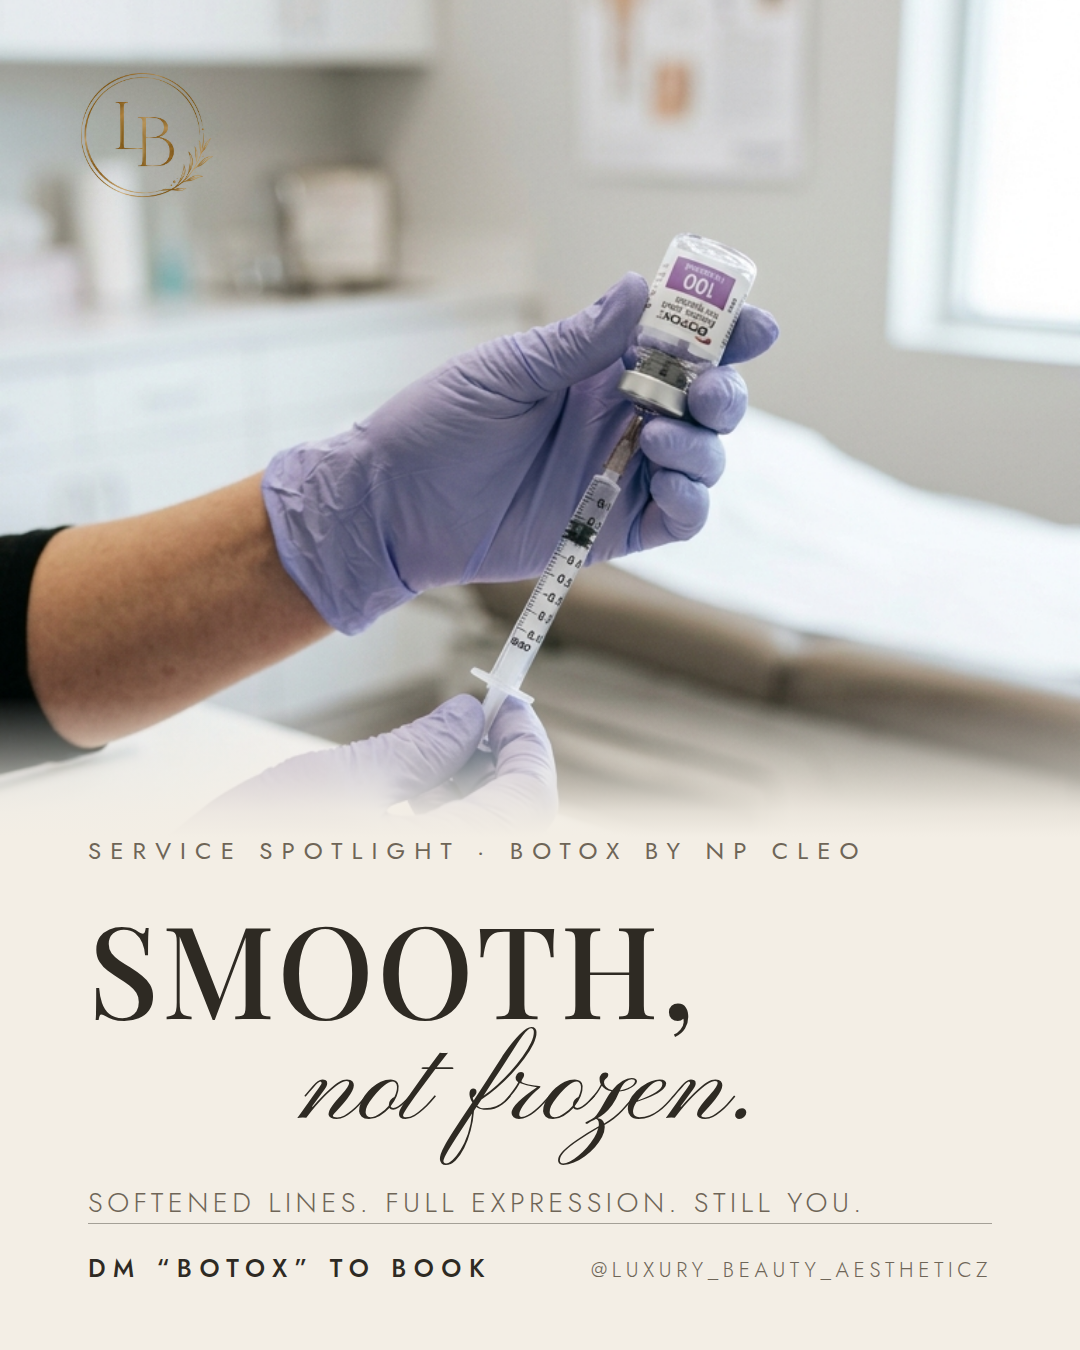
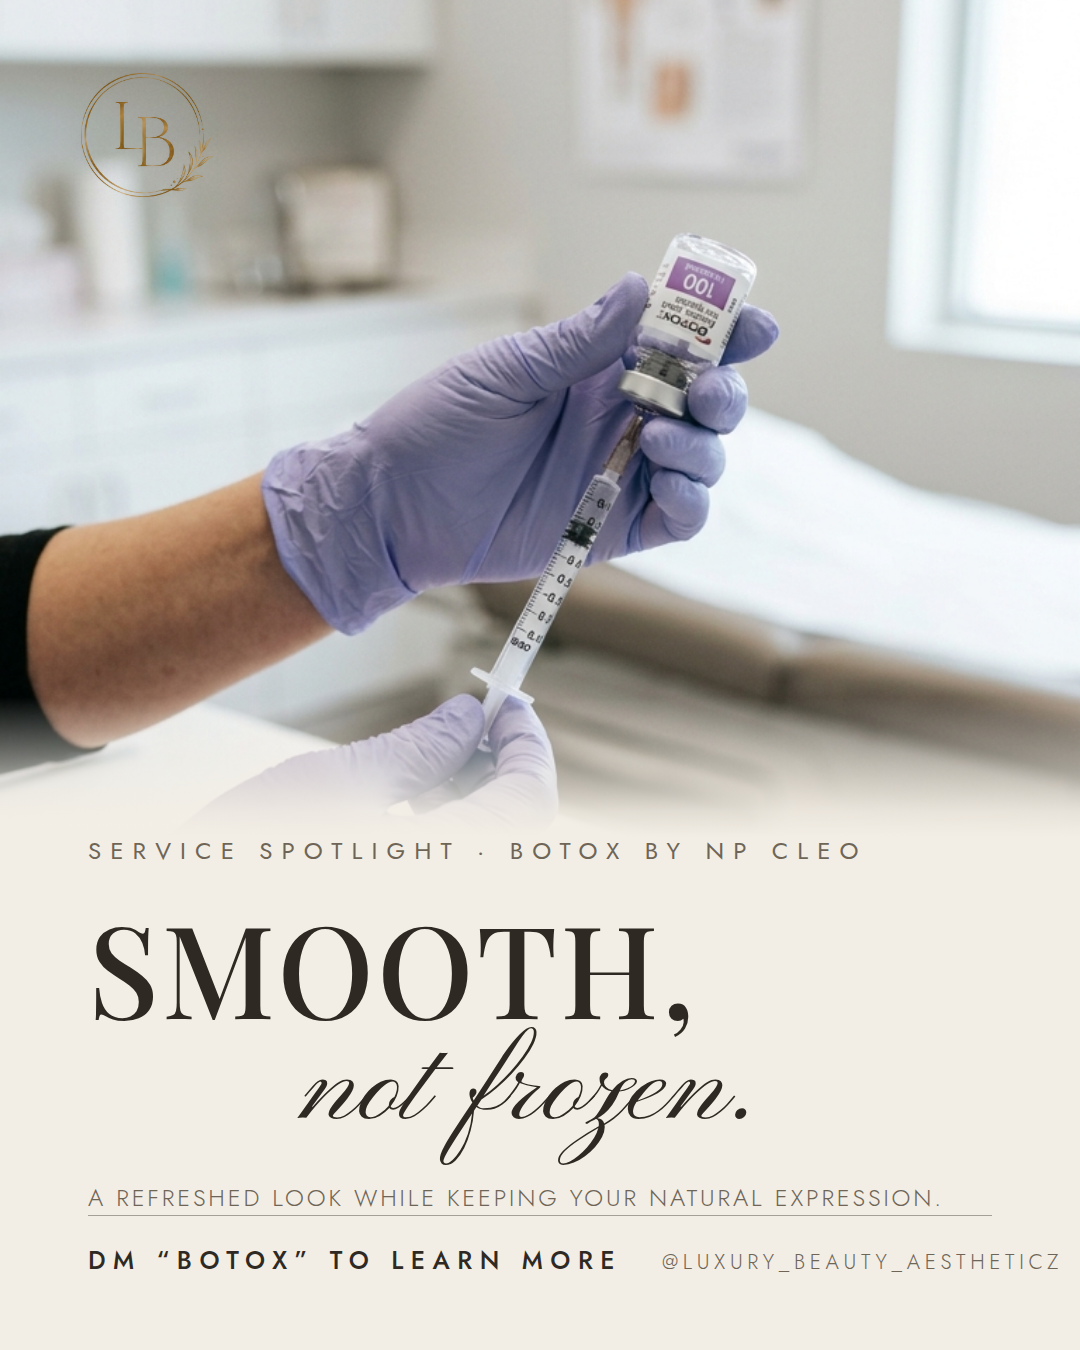
Update Botox spotlight copy: new support line and learn-more CTA
Claude-Session: https://claude.ai/code/session_01SLor5oRycb3mTg2nxeqzj7

Changed region(s): [[0.0611, 0.8711, 0.9167, 0.9644]]

diff --git a/design/spotlight.html b/design/spotlight.html
@@ -54,7 +54,7 @@
     margin:6px 0 0 210px;
   }
   .support{
-    margin-top:38px;font-size:28px;font-weight:300;letter-spacing:.16em;
+    margin-top:36px;font-size:24px;font-weight:300;letter-spacing:.12em;
     text-transform:uppercase;color:var(--ink-soft);
   }
   .footer{margin-top:auto;}
@@ -82,11 +82,11 @@
       <div class="serif">SMOOTH,</div>
       <div class="script">not frozen.</div>
     </div>
-    <div class="support">Softened lines. Full expression. Still you.</div>
+    <div class="support">A refreshed look while keeping your natural expression.</div>
     <div class="footer">
       <div class="rule"></div>
       <div class="row">
-        <div class="cta">DM &#8220;Botox&#8221; to book</div>
+        <div class="cta">DM &#8220;Botox&#8221; to learn more</div>
         <div class="handle">@luxury_beauty_aestheticz</div>
       </div>
     </div>
